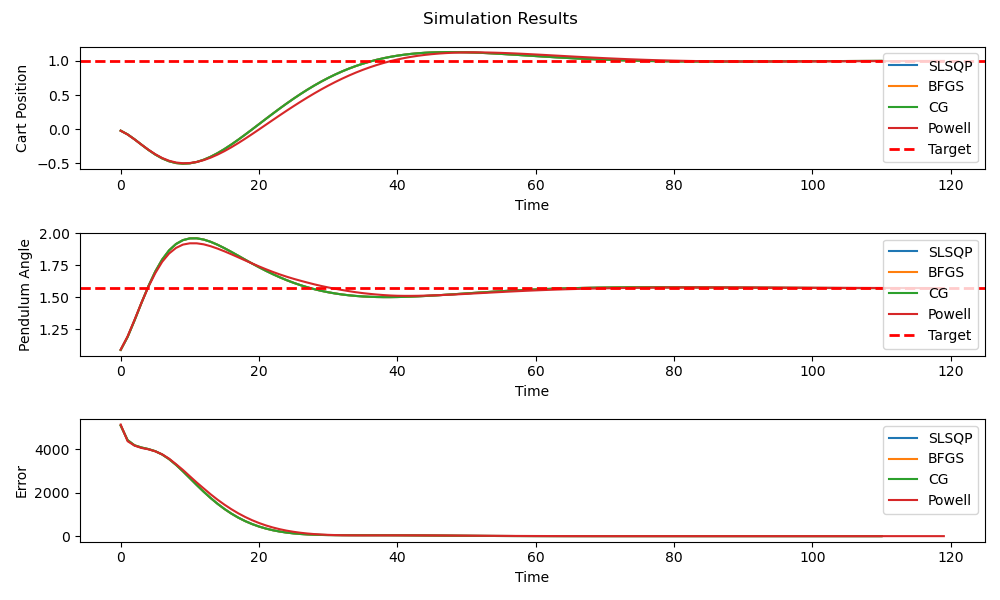
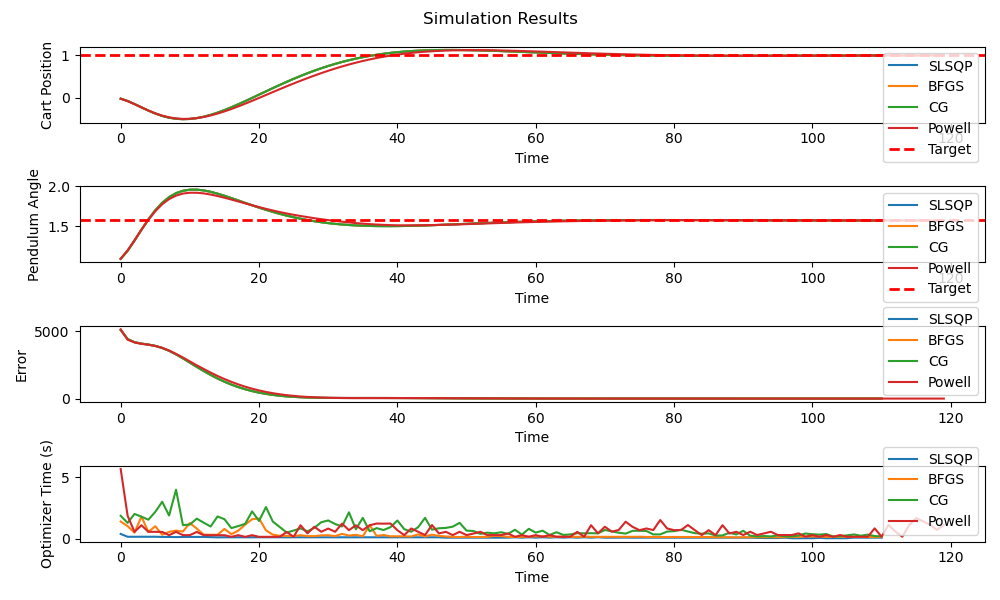
add model as parameter

diff --git a/experiment.py b/experiment.py
@@ -13,6 +13,7 @@ def experiment(solver_type, args):
     sim_iter = 0
     state_logs = []
     error_logs = []
+    time_logs = []
         
     # Set simulation parameters
     dt = 0.05
@@ -49,6 +50,9 @@ def experiment(solver_type, args):
         
     # Initial guess for the control inputs
     initial_guess = np.zeros(P)
+
+    # Virtual model
+    vir_model = InvertedPendulum(m=pendulum_system.m, M=pendulum_system.M, L=pendulum_system.L)
     
     # define args_dict
     args_dict = {'goal_theta': goal_theta,
@@ -57,7 +61,8 @@ def experiment(solver_type, args):
                  'P': P, 
                  'eth_W': eth_W, 'ex_W': ex_W, 'f_rate_W': f_rate_W, 
                  'dt': dt,
-                 'm': pendulum_system.m, 'M': pendulum_system.M, 'L': pendulum_system.L}
+                 'm': pendulum_system.m, 'M': pendulum_system.M, 'L': pendulum_system.L,
+                 'vir_model':vir_model}
 
     # MPC Control Loop
     for i in range(num_steps):
@@ -70,6 +75,10 @@ def experiment(solver_type, args):
                           options={'disp': False})
         # print("Time taken for optimization: ", time.time() - st)
         # Extract optimal control inputs
+        solver_time = time.time() - st
+        print(solver_time)
+        time_logs.append(solver_time)
+
         optimal_controls = result.x
 
         # Apply the first control input to the system
@@ -143,14 +152,14 @@ theta={init_state.theta:.2f} / {goal_theta:.2f}, input= {pendulum_system.inputs.
         plt.show()
         # plt.savefig(title + '.png')
 
-    return (state_logs, error_logs, goal_x, goal_theta, sim_iter)
+    return (state_logs, error_logs, time_logs, goal_x, goal_theta, sim_iter)
 
 def plot_results(results, title):
-    fig, axs = plt.subplots(3, 1, figsize=(10, 6))
+    fig, axs = plt.subplots(4, 1, figsize=(10, 6))
     fig.suptitle(title)
 
     for solver_type in results:
-        state_logs, error_logs, goal_x, goal_theta, sim_iter = results[solver_type]
+        state_logs, error_logs, time_logs, goal_x, goal_theta, sim_iter = results[solver_type]
         
         cart_poss = [s.x for s in state_logs]
         pendulum_angles = [s.theta for s in state_logs]
@@ -171,12 +180,18 @@ def plot_results(results, title):
         axs[2].set_xlabel('Time')
         axs[2].set_ylabel('Error')
 
+        # Time
+        axs[3].plot(idx, time_logs, label=solver_type)
+        axs[3].set_xlabel('Time')
+        axs[3].set_ylabel('Optimizer Time (s)')
+
     axs[0].axhline(y=goal_x, color='red', linestyle='--', label='Target', linewidth=2)
     axs[1].axhline(y=goal_theta, color='red', linestyle='--', label='Target', linewidth=2)
 
     axs[0].legend()
     axs[1].legend()
     axs[2].legend()
+    axs[3].legend()
 
     # Adjust layout
     plt.tight_layout()

diff --git a/controlled_cart_and_pendulum.py b/controlled_cart_and_pendulum.py
@@ -22,11 +22,11 @@ def objective(x, args_dict):
     m = args_dict['m']
     M = args_dict['M']
     L = args_dict['L']
+    vir_model = args_dict['vir_model']
     
     Error = 0
     init_state_1 = init_state
     # Initialize the virtual model
-    vir_model = InvertedPendulum(m=m, M=M, L=L)
     vir_model.state = init_state_1
     for i in range(P):
         vir_model.inputs.force = x[i]
@@ -103,6 +103,9 @@ def main():
     # Initial guess for the control inputs
     initial_guess = np.zeros(P)
     
+    # Virtual model
+    vir_model = InvertedPendulum(m=pendulum_system.m, M=pendulum_system.M, L=pendulum_system.L)
+
     # define args_dict
     args_dict = {'goal_theta': goal_theta,
                  'goal_x': goal_x, 
@@ -110,7 +113,8 @@ def main():
                  'P': P, 
                  'eth_W': eth_W, 'ex_W': ex_W, 'f_rate_W': f_rate_W, 
                  'dt': dt,
-                 'm': pendulum_system.m, 'M': pendulum_system.M, 'L': pendulum_system.L}
+                 'm': pendulum_system.m, 'M': pendulum_system.M, 'L': pendulum_system.L,
+                 'vir_model': vir_model}
 
     inputs_list = []
     # MPC Control Loop
@@ -124,7 +128,7 @@ def main():
         # print("Time taken for optimization: ", time.time() - st)
         # Extract optimal control inputs
         optimal_controls = result.x
-
+        print(time.time() - st)
         # Apply the first control input to the system
         pendulum_system.inputs.force = optimal_controls[0]        
         pendulum_system.step_rk4(dt)
